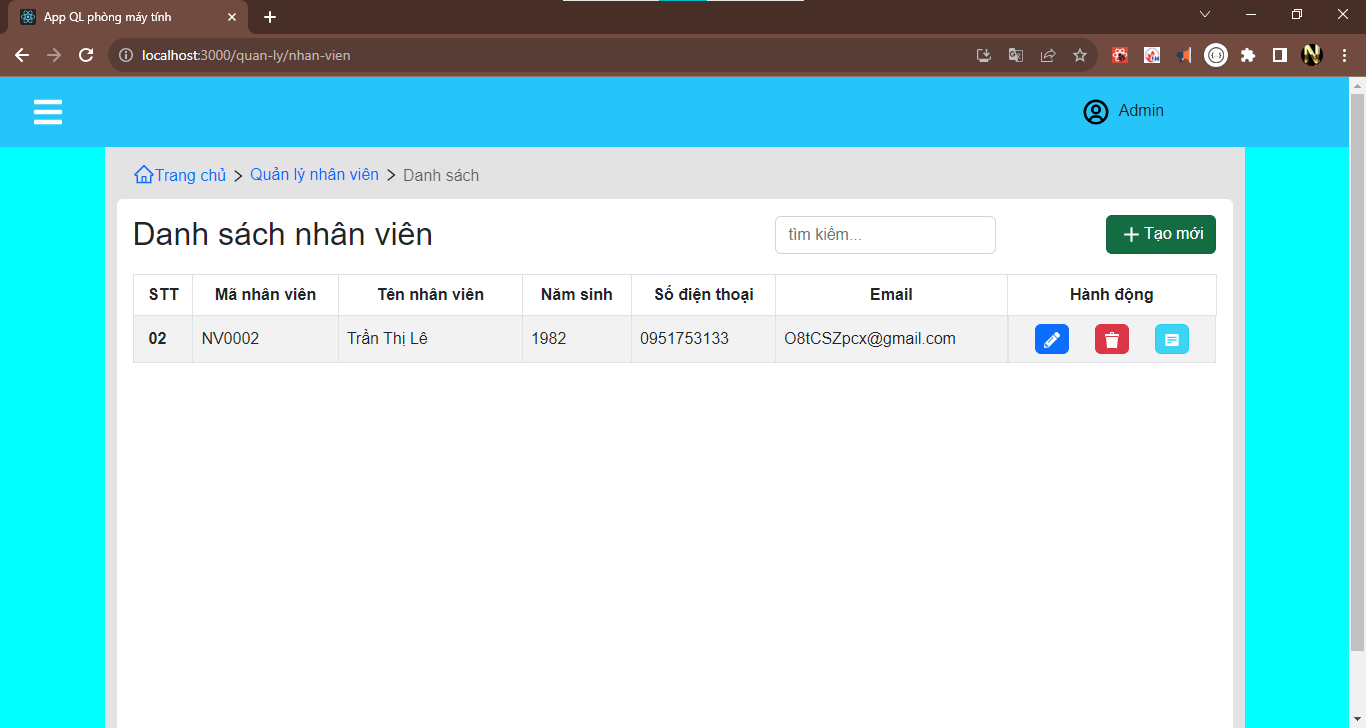
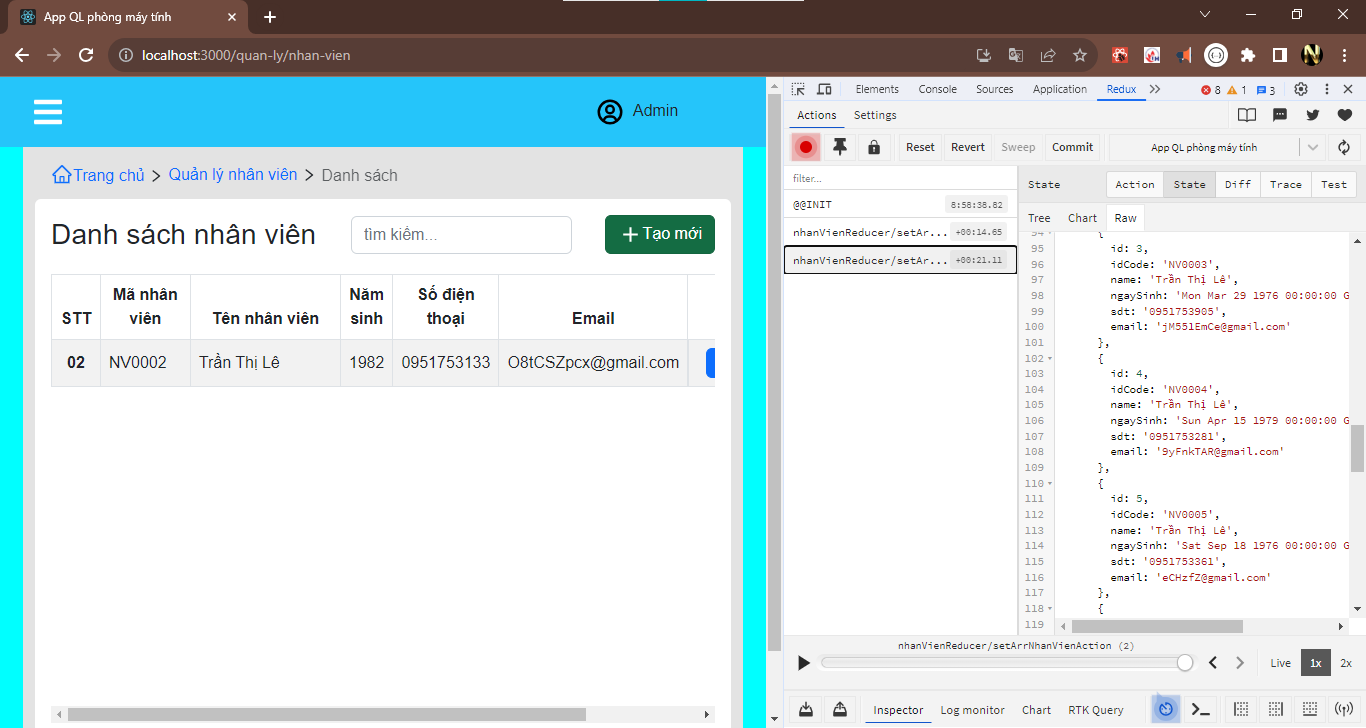
QLNhanVien: add getAllNhanVienApi - reducer

diff --git a/src/redux/reducers/nhanVienReducer.jsx b/src/redux/reducers/nhanVienReducer.jsx
@@ -1,0 +1,50 @@
+//rxslice
+
+import { createSlice } from "@reduxjs/toolkit";
+import { http } from "../../util/config";
+import Database from "../../util/database/Database";
+
+const initialState = {
+  arrNhanVien: [
+    {
+      id: 2,
+      idCode: "NV0002",
+      name: "Trần Thị Lê",
+      ngaySinh: "Sun Jan 10 1982 00:00:00 GMT+0700 (GMT+07:00)",
+      sdt: "0951753133",
+      email: "O8tCSZpcx@gmail.com",
+    },
+  ],
+  arrNhanVienSearch: [],
+  detailNhanVien: {},
+  valueSearch: "",
+};
+
+const nhanVienReducer = createSlice({
+  name: "nhanVienReducer",
+  initialState,
+  reducers: {
+    setArrNhanVienAction: (state, action) => {
+      state.arrNhanVien = action.payload;
+      state.arrNhanVienSearch = action.payload;
+    },
+  },
+});
+// exp nay de sử dụng theo cách 2
+export const {setArrNhanVienAction,} = nhanVienReducer.actions;
+export default nhanVienReducer.reducer;
+
+// -------------- Call API ---------------
+
+export const getAllNhanVienApi = async (dispatch) => {
+  try {
+    // const result = await http.get("/nhanvien...");
+    // dispatch(setArrNhanVienAction(result.data.content));
+    dispatch(setArrNhanVienAction(Database.dataNhanVien));
+  } catch (error) {
+    console.log(
+      "🚀 ~ file: nhanVienReducer.jsx:38 ~ getAllNhanVienApi ~ error:",
+      error
+    );
+  }
+};

diff --git a/src/util/database/Database.js b/src/util/database/Database.js
@@ -236,6 +236,6 @@ const dataNhanVien = [
   {id:8, idCode:'NV0008', name:"Trần Thị Lê", ngaySinh: date_NgaySinh()+"", sdt:random_sdt(), email:random_email() },
   {id:9, idCode:'NV0009', name:"Trần Thị Lê", ngaySinh: date_NgaySinh()+"", sdt:random_sdt(), email:random_email() },
 ]
-console.log("🚀 ~ file: Database.js:239 ~ dataNhanVien:", dataNhanVien[1])
+// console.log("🚀 ~ file: Database.js:239 ~ dataNhanVien:", dataNhanVien[1])
 
-export default { dataKhuVuc,dataPhongMay,dataTang,dataThietBi,dataPhanMem,dataMonHoc };
+export default { dataKhuVuc,dataPhongMay,dataTang,dataThietBi,dataPhanMem,dataMonHoc, dataNhanVien };

diff --git a/src/pages/PageQuanLy/PageQLNhanVien.jsx b/src/pages/PageQuanLy/PageQLNhanVien.jsx
@@ -9,8 +9,17 @@ import Footer from "../../components/common/Footer/Footer";
 import NavTab from "../../components/common/NavTab/NavTab";
 import { NavLink } from "react-router-dom";
 import { useDispatch, useSelector } from "react-redux";
+import { getAllNhanVienApi } from "../../redux/reducers/nhanVienReducer";
 
 export default function PageQLNhanVien() {
+
+    const dispatch = useDispatch();
+
+    const {arrNhanVienSearch} = useSelector(state => state.nhanVienReducer);
+
+    useEffect(() => {
+        dispatch(getAllNhanVienApi)
+    }, [])
 
     //handle 
     const handleChangeSearch = (e) => {

diff --git a/src/redux/ConfigRedux.js b/src/redux/ConfigRedux.js
@@ -2,9 +2,11 @@ import { configureStore } from "@reduxjs/toolkit";
 import numberReducer from "./reducers/numberReducer";
 import monHocReducer from "./reducers/monHocReducer";
 import thietBiReducer from "./reducers/thietBiReducer";
+import nhanVienReducer from "./reducers/nhanVienReducer";
 
 export const store = configureStore({
     reducer: {
+      nhanVienReducer:nhanVienReducer,
       number: numberReducer,
       monHocReducer: monHocReducer,
       thietBiReducer:thietBiReducer,
